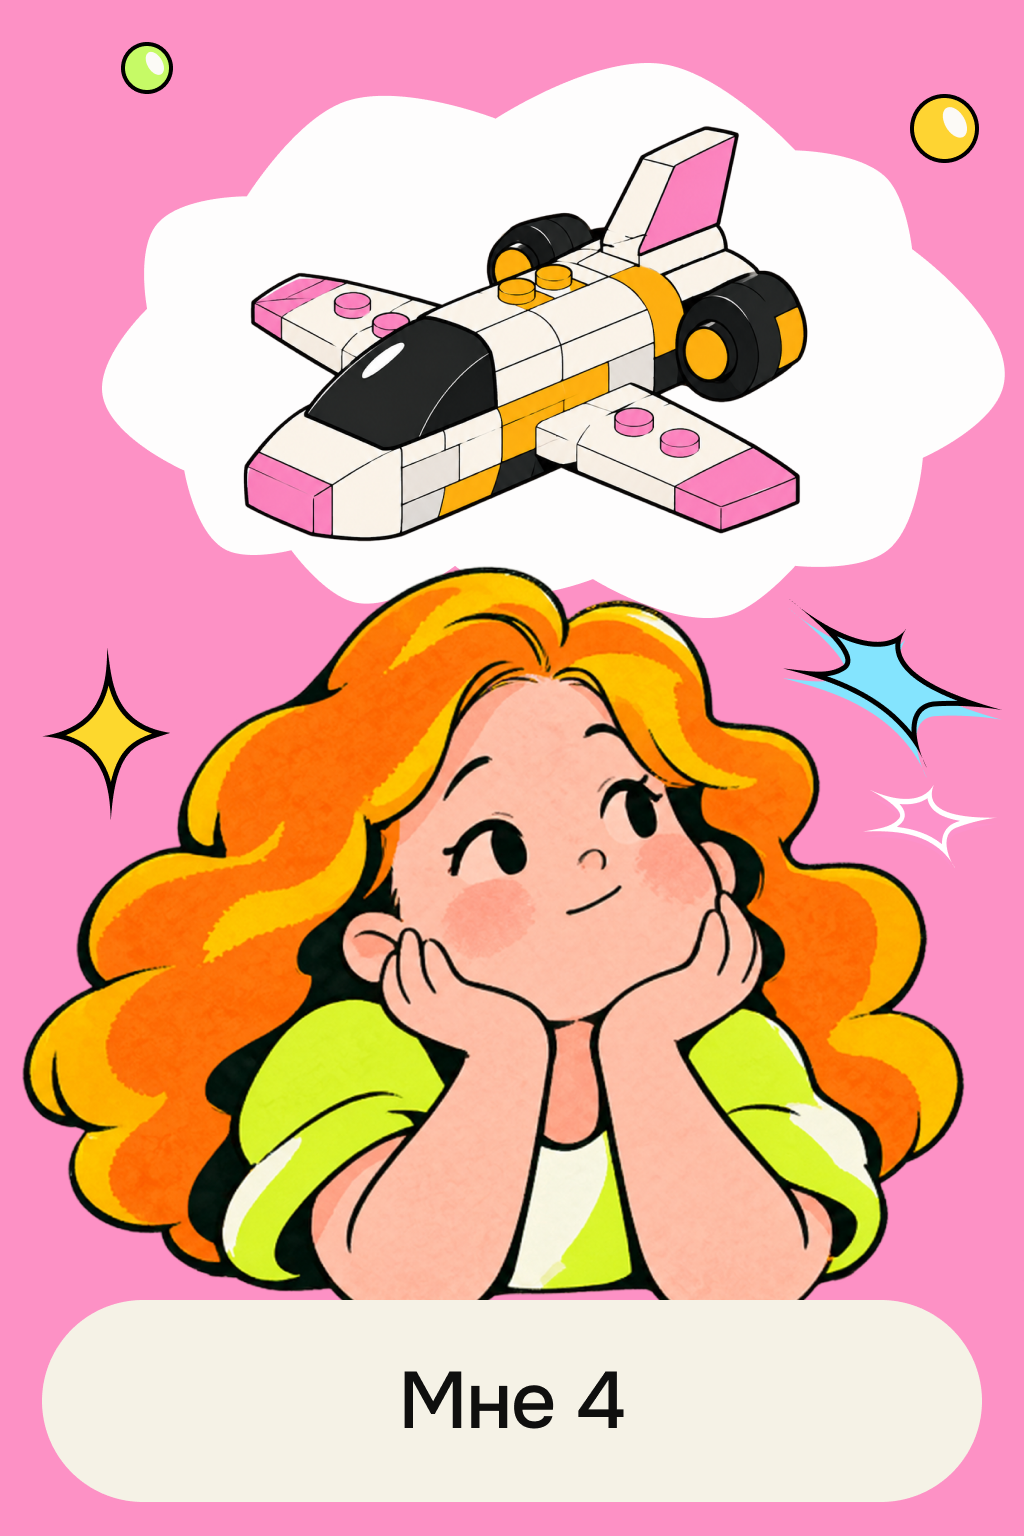
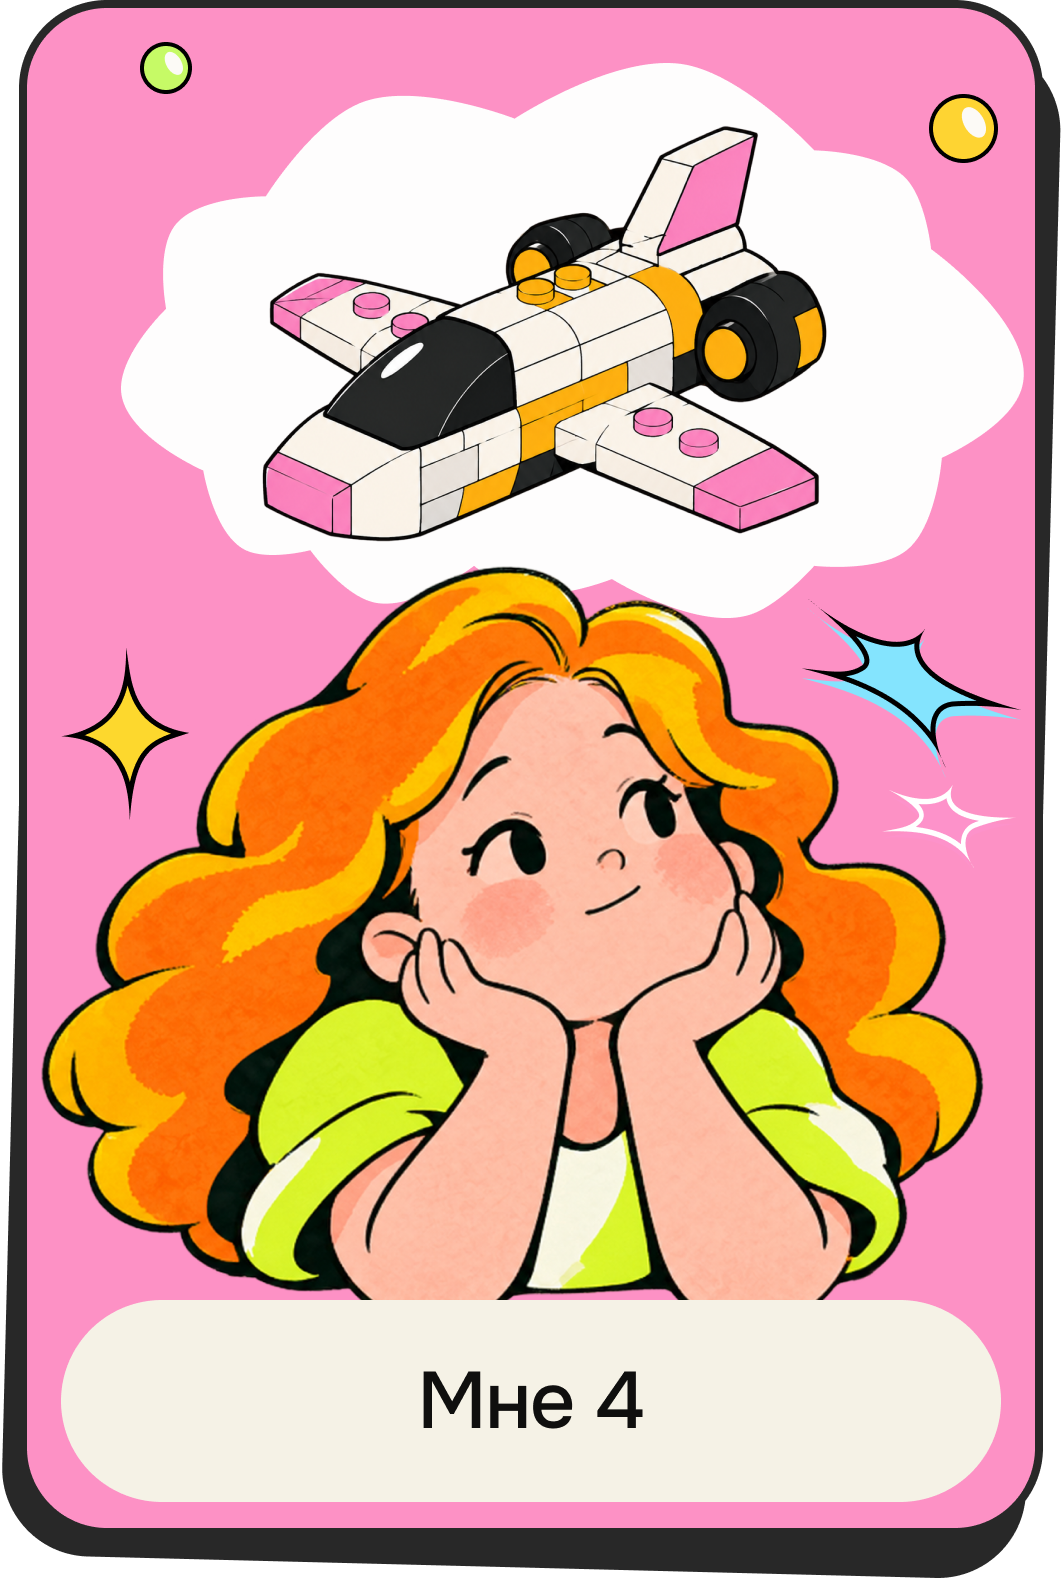
adjustments

diff --git a/stylesheets/layout.css b/stylesheets/layout.css
@@ -146,30 +146,9 @@ body.is-loading {
   width: 100%;
   height: 100%;
   object-fit: cover;
-  border: 3px solid var(--black);
-  border-radius: 32px;
   z-index: 2;
 }
-.preloader_card__bg {
-  position: absolute;
-  inset: 0;
-  width: 100%;
-  height: 100%;
-  border: 3px solid var(--black);
-  border-radius: 32px;
-  background: var(--black);
 
-  transform: translate(9px, 9px);
-  z-index: 1;
-}
-.preloader_card__bg--1 {
-  transform: translate(-6px, 0px);
-  rotate: 1deg;
-}
-.preloader_card__bg--3 {
-  transform: translate(-9px, -4px);
-  rotate: -1deg;
-}
 .preloader_card.is-visible .preloader_card__inner {
   animation: cardAppear 0.65s cubic-bezier(0.22, 1, 0.36, 1) forwards;
 }
@@ -251,31 +230,8 @@ body.is-loading {
   width: 100%;
   height: 100%;
   object-fit: cover;
-  border: 3px solid var(--black);
   border-radius: 32px;
   z-index: 2;
-}
-
-.main__card-bg {
-  position: absolute;
-  inset: 0;
-  width: 100%;
-  height: 100%;
-  border: 3px solid var(--black);
-  border-radius: 32px;
-  background: var(--black);
-  transform: translate(9px, 9px);
-  z-index: 1;
-}
-
-.main__card-bg--1 {
-  transform: translate(-6px, 0);
-  rotate: 1deg;
-}
-
-.main__card-bg--3 {
-  transform: translate(-4px, 3px);
-  rotate: -1deg;
 }
 
 .main__card--1 {
@@ -436,8 +392,6 @@ body.is-loading {
   width: clamp(160px, 18vw, 260px);
   aspect-ratio: 383 / 564;
   object-fit: contain;
-  border-radius: 24px;
-  border: 2px solid var(--black);
 }
 
 .reflection__card--1 {
@@ -464,8 +418,6 @@ body.is-loading {
   width: 95px;
   height: auto;
   transform: rotate(5deg);
-  border: 1px solid var(--black);
-  border-radius: 8px;
 }
 
 .reflection__overlay {
@@ -537,8 +489,6 @@ body.is-loading {
   height: auto;
   transform: rotate(5deg);
   width: 95px;
-  border: 1px solid var(--black);
-  border-radius: 8px;
 }
 
 .myth__content,

diff --git a/index.html b/index.html
@@ -23,19 +23,16 @@
         <div class="preloader_card preloader_card--1">
           <div class="preloader_card__inner">
             <img src="./assets/cards/hand-down.png" alt="" />
-            <div class="preloader_card__bg preloader_card__bg--1"></div>
           </div>
         </div>
         <div class="preloader_card preloader_card--2">
           <div class="preloader_card__inner">
             <img src="./assets/cards/car.png" alt="" />
-            <div class="preloader_card__bg preloader_card__bg--2"></div>
           </div>
         </div>
         <div class="preloader_card preloader_card--3">
           <div class="preloader_card__inner">
             <img src="./assets/cards/chem.png" alt="" />
-            <div class="preloader_card__bg preloader_card__bg--3"></div>
           </div>
         </div>
         <div class="preloader__number" id="loadingPercent">0%</div>
@@ -65,21 +62,18 @@
       <div class="main__card main__card--1">
         <div class="main__card-inner">
           <img src="./assets/cards/hand-down.png" alt="">
-          <div class="main__card-bg main__card-bg--1"></div>
         </div>
       </div>
 
       <div class="main__card main__card--2">
         <div class="main__card-inner">
           <img src="./assets/cards/car.png" alt="">
-          <div class="main__card-bg main__card-bg--2"></div>
         </div>
       </div>
 
       <div class="main__card main__card--3">
         <div class="main__card-inner">
           <img src="./assets/cards/chem.png" alt="">
-          <div class="main__card-bg main__card-bg--3"></div>
         </div>
       </div>
 

diff --git a/stylesheets/global.css b/stylesheets/global.css
@@ -216,33 +216,12 @@ body {
   width: 100%;
   height: auto;
   border-radius: 28px;
-  border: 3px solid var(--black);
 }
 .choice-card img {
   width: 247px;
   height: 371px;
   border-radius: 20px;
-  border: 2px solid var(--black);
 }
-/*
-.choice-card:nth-of-type(1) {
-  transform: rotate(-20deg);
-}
-.choice-card:nth-of-type(2) {
-  transform: rotate(-7deg);
-}
-.choice-card:nth-of-type(3) {
-  transform: rotate(10deg);
-}
-.choice-card:nth-of-type(1):hover {
-  transform: rotate(-15deg);
-}
-.choice-card:nth-of-type(2):hover {
-  transform: rotate(-12deg);
-}
-.choice-card:nth-of-type(3):hover {
-  transform: rotate(15deg);
-} */
 .story__content {
   position: relative;
   z-index: 1;

diff --git a/stylesheets/adaptive.css b/stylesheets/adaptive.css
@@ -133,7 +133,7 @@
     border-radius: 50rem;
     border: 2px solid var(--black);
     padding: 20px 32px;
-    width: 239px;
+    width: 242px;
     height: 66px;
     display: flex;
     justify-content: center;
@@ -314,12 +314,12 @@
   }
 
   .reflection__collected {
-    top: 12%;
+    top: 93%;
     left: 4%;
   }
 
   .reflection__collected img {
-    width: 45px;
+    width: 95px;
   }
 
   .reflection__popup {
